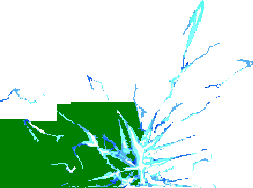
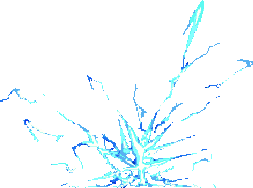
refactor: work on animateMovement() method

Changed region(s): [[0.0, 0.5319, 0.581, 1.0]]

diff --git a/script.js b/script.js
@@ -1,11 +1,16 @@
 var sasuke = {
-	crop: document.getElementsByClassName("character-Sasuke")[0],
-	gallery: document.getElementsByClassName("character-Sasuke__gallery gallery")[0],
-	valuesRunWidth: [39, 32, 36, 38, 32, 37],
-	valuesRunHeight: [29, 29, 29, 29, 29, 29],
+	heroAbilities: ["chidoriNagashi", "chidoriRun", "fireball"],
+	aCrop: document.getElementsByClassName("ability-crop")[0],
+	aGallery: document.getElementsByClassName("ability-crop__gallery gallery")[0],
+
+	hCrop: document.getElementsByClassName("Sasuke-crop")[0],
+	hGallery: document.getElementsByClassName("Sasuke-crop__gallery gallery")[0],
 
 	valuesStanceWidth: [24, 24, 24, 24, 24, 24],
 	valuesStanceHeight: [44, 45, 45, 45, 44, 44],
+
+	valuesRunWidth: [39, 32, 36, 38, 32, 37],
+	valuesRunHeight: [29, 29, 29, 29, 29, 29],
 
 	valuesJumpWidth: [27, 27, 30, 30, 23],
 	valuesJumpHeight: [41, 40, 43, 43, 28],
@@ -53,162 +58,123 @@ var sasuke = {
 	valuesChidoriNagashiWidth: [27, 26, 26, 26, 26, 26, 26, 26, 26, 26, 36, 35, 35, 32, 28, 28],
 	valuesChidoriNagashiHeight: [43, 40, 40, 40, 40, 40, 40, 40, 40, 36, 28, 29, 29, 25, 30, 40],
 
-	sasukeRunRight: function(){
-		animateMovement(this.crop, this.gallery, this.valuesRunWidth, this.valuesRunHeight, "Sasuke", "run", "right", 150);
-	},
-	sasukeRunLeft: function(){
-		animateMovement(this.crop, this.gallery, this.valuesRunWidth, this.valuesRunHeight, "Sasuke", "run", "left", 150);
+	sasukeStance: function(way){
+		animateMovement(this.valuesStanceWidth, this.valuesStanceHeight, this, "Sasuke", "stance", way, 150);
 	},
 
-	sasukeStanceRight: function(){
-		animateMovement(this.crop, this.gallery, this.valuesStanceWidth, this.valuesStanceHeight, "Sasuke", "stance", "right", 150);
-	},
-	sasukeStanceLeft: function(){
-		animateMovement(this.crop, this.gallery, this.valuesStanceWidth, this.valuesStanceHeight, "Sasuke", "stance", "left", 150);
+	sasukeRun: function(way){
+		animateMovement(this.valuesRunWidth, this.valuesRunHeight, this, "Sasuke", "run", way, 150);
 	},
 
-	sasukeJumpRight: function(){
-		animateMovement(this.crop, this.gallery, this.valuesJumpWidth, this.valuesJumpHeight, "Sasuke", "jump", "right", 300);
-	},
-	sasukeJumpLeft: function(){
-		animateMovement(this.crop, this.gallery, this.valuesJumpWidth, this.valuesJumpHeight, "Sasuke", "jump", "left", 300);
+	sasukeJump: function(way){
+		animateMovement(this.valuesJumpWidth, this.valuesJumpHeight, this, "Sasuke", "jump", way, 300);
 	},
 
-	sasukeTeleportRight: function(){
-		animateMovement(this.crop, this.gallery, this.valuesTeleportWidth, this.valuesTeleportHeight, "Sasuke", 
-						"teleport", "right", 200);
-	},
-	sasukeTeleportLeft: function(){
-		animateMovement(this.crop, this.gallery, this.valuesTeleportWidth, this.valuesTeleportHeight, "Sasuke", 
-						"teleport", "left", 200);
+	sasukeTeleport: function(way){
+		animateMovement(this.valuesTeleportWidth, this.valuesTeleportHeight, this, "Sasuke", 
+						"teleport", way, 200);
 	},
 
-	sasukeDamagedRight: function(){
-		animateMovement(this.crop, this.gallery, this.valuesDamagedWidth, this.valuesDamagedHeight, "Sasuke", "damaged", "right", 300);
-	},
-	sasukeDamagedLeft: function(){
-		animateMovement(this.crop, this.gallery, this.valuesDamagedWidth, this.valuesDamagedHeight, "Sasuke", "damaged", "left", 300);
+	sasukeDamaged: function(way){
+		animateMovement(this.valuesDamagedWidth, this.valuesDamagedHeight, this, "Sasuke", "damaged", way, 300);
 	},
 
 	//knockout - нокаут, поражение
-	sasukeKnockoutRight: function(){
-		animateMovement(this.crop, this.gallery, this.valuesKnockoutWidth, this.valuesKnockoutHeight, "Sasuke", "knockout", 
+	sasukeKnockout: function(way){
+		animateMovement(this.valuesKnockoutWidth, this.valuesKnockoutHeight, this, "Sasuke", "knockout", 
 						"right", 300);
-	},
-	sasukeKnockoutLeft: function(){
-		animateMovement(this.crop, this.gallery, this.valuesKnockoutWidth, this.valuesKnockoutHeight, "Sasuke", "knockout", 
-						"left", 300);
 	},
 
 	// knocked down - оглушение от сильного удара
-	sasukeKnockedDownRight: function(){
-		animateMovement(this.crop, this.gallery, this.valuesKnockedDownWidth, this.valuesKnockedDownHeight, "Sasuke", "knockedDown", 
-						"right", 300);
-	},
-	sasukeKnockedDownLeft: function(){
-		animateMovement(this.crop, this.gallery, this.valuesKnockedDownWidth, this.valuesKnockedDownHeight, "Sasuke", "knockedDown", 
-						"left", 300);
+	sasukeKnockedDown: function(way){
+		animateMovement(this.valuesKnockedDownWidth, this.valuesKnockedDownHeight, this, "Sasuke", "knockedDown", 
+						way, 300);
 	},
 
-	sasukeAttack1Right: function(){
-		animateMovement(this.crop, this.gallery, this.valuesAttack1Width, this.valuesAttack1Height, "Sasuke", "attack1", "right", 300);
-	},
-	sasukeAttack1Left: function(){
-		animateMovement(this.crop, this.gallery, this.valuesAttack1Width, this.valuesAttack1Height, "Sasuke", "attack1", "left", 300);
+	sasukeAttack1: function(way){
+		animateMovement(this.valuesAttack1Width, this.valuesAttack1Height, this, "Sasuke", "attack1", way, 300);
 	},
 
-	sasukeAttack2Right: function(){
-		animateMovement(this.crop, this.gallery, this.valuesAttack2Width, this.valuesAttack2Height, "Sasuke", "attack2", "right", 200);
-	},
-	sasukeAttack2Left: function(){
-		animateMovement(this.crop, this.gallery, this.valuesAttack2Width, this.valuesAttack2Height, "Sasuke", "attack2", "left", 200);
+	sasukeAttack2: function(way){
+		animateMovement(this.valuesAttack2Width, this.valuesAttack2Height, this, "Sasuke", "attack2", way, 200);
 	},
 
-	sasukeAttack3Right: function(){
-		animateMovement(this.crop, this.gallery, this.valuesAttack3Width, this.valuesAttack3Height, "Sasuke", "attack3", "right", 300);
-	},
-	sasukeAttack3Left: function(){
-		animateMovement(this.crop, this.gallery, this.valuesAttack3Width, this.valuesAttack3Height, "Sasuke", "attack3", "left", 300);
+	sasukeAttack3: function(way){
+		animateMovement(this.valuesAttack3Width, this.valuesAttack3Height, this, "Sasuke", "attack3", way, 300);
 	},
 
-	sasukeAttackUpRight: function(){
-		animateMovement(this.crop, this.gallery, this.valuesAttackUpWidth, this.valuesAttackUpHeight, "Sasuke", "attackUp", 
-						"right", 200);
-	},
-	sasukeAttackUpLeft: function(){
-		animateMovement(this.crop, this.gallery, this.valuesAttackUpWidth, this.valuesAttackUpHeight, "Sasuke", "attackUp", 
-						"left", 200);
+	sasukeAttackUp: function(way){
+		animateMovement(this.valuesAttackUpWidth, this.valuesAttackUpHeight, this, "Sasuke", "attackUp", 
+						way, 200);
 	},
 
-	sasukeAttackRunRight: function(){
-		animateMovement(this.crop, this.gallery, this.valuesAttackRunWidth, this.valuesAttackRunHeight, "Sasuke", "attackRun", 
-						"right", 300);
-	},
-	sasukeAttackRunLeft: function(){
-		animateMovement(this.crop, this.gallery, this.valuesAttackRunWidth, this.valuesAttackRunHeight, "Sasuke", "attackRun", 
-						"left", 300);
+	sasukeAttackRun: function(way){
+		animateMovement(this.valuesAttackRunWidth, this.valuesAttackRunHeight, this, "Sasuke", "attackRun", 
+						way, 300);
 	},
 
-	sasukeAttackJumpRight: function(){
-		animateMovement(this.crop, this.gallery, this.valuesAttackJumpWidth, this.valuesAttackJumpHeight, "Sasuke", "attackJump",
-						"right", 300);
-	},
-	sasukeAttackJumpLeft: function(){
-		animateMovement(this.crop, this.gallery, this.valuesAttackJumpWidth, this.valuesAttackJumpHeight, "Sasuke", "attackJump",
-						"left", 300);
+	sasukeAttackJump: function(way){
+		animateMovement(this.valuesAttackJumpWidth, this.valuesAttackJumpHeight, this, "Sasuke", "attackJump",
+						way, 300);
 	},
 
-	sasukeWeaponThrowRight: function(){
-		animateMovement(this.crop, this.gallery, this.valuesWeaponThrowWidth, this.valuesWeaponThrowHeight, "Sasuke", "weaponThrow",
-						"right", 200);
-	},
-	sasukeWeaponThrowLeft: function(){
-		animateMovement(this.crop, this.gallery, this.valuesWeaponThrowWidth, this.valuesWeaponThrowHeight, "Sasuke", "weaponThrow",
-						"left", 200);
+	sasukeWeaponThrow: function(way){
+		animateMovement(this.valuesWeaponThrowWidth, this.valuesWeaponThrowHeight, this, "Sasuke", "weaponThrow",
+						way, 200);
 	},
 
-	sasukeWeaponThrowJumpRight: function(){
-		animateMovement(this.crop, this.gallery, this.valuesWeaponThrowJumpWidth, this.valuesWeaponThrowJumpHeight, "Sasuke",
-						"weaponThrowJump", "right", 150);
-	},
-	sasukeWeaponThrowJumpLeft: function(){
-		animateMovement(this.crop, this.gallery, this.valuesWeaponThrowJumpWidth, this.valuesWeaponThrowJumpHeight, "Sasuke",
-						"weaponThrowJump", "left", 150);
+	sasukeWeaponThrowJump: function(way){
+		animateMovement(this.valuesWeaponThrowJumpWidth, this.valuesWeaponThrowJumpHeight, this, "Sasuke",
+						"weaponThrowJump", way, 150);
 	},
 
-	sasukeWinRight: function(){
-		animateMovement(this.crop, this.gallery, this.valuesWinWidth, this.valuesWinHeight, "Sasuke", "win", "right", 200);
-	},
-	sasukeWinLeft: function(){
-		animateMovement(this.crop, this.gallery, this.valuesWinWidth, this.valuesWinHeight, "Sasuke", "win", "left", 200);
+	sasukeWin: function(way){
+		animateMovement(this.valuesWinWidth, this.valuesWinHeight, this, "Sasuke", "win", way, 200);
 	},
 
-	sasukeChidoriNagashiRight: function(){
-		animateMovement(this.crop, this.gallery, this.valuesChidoriNagashiWidth, this.valuesChidoriNagashiHeight, "Sasuke", 
-						"chidoriNagashi", "right", 250);
+	sasukeChidoriNagashi: function(way){
+		animateMovement(this.valuesChidoriNagashiWidth, this.valuesChidoriNagashiHeight, this, "Sasuke", 
+						"chidoriNagashi", way, 250);
 	},
-	sasukeChidoriNagashiLeft: function(){
-		animateMovement(this.crop, this.gallery, this.valuesChidoriNagashiWidth, this.valuesChidoriNagashiHeight, "Sasuke",
-						"chidoriNagashi", "left", 250);
+
+	chidoriNagashi: function(){
+		console.log("chidoriNagashi is called!");
+		//drawAbility();
 	}
 };
 
-function animateMovement(crop, gallery, widthValues, heightValues, hero, type, way, milliseconds){
+function drawAbility(crop, gallery, widthValues, heightValues, heroName, type, way, folder1, folder2){
+
+}
+
+function animateMovement(widthValues, heightValues, hero, heroName, type, way, milliseconds){
+	//Обращение по ссылке к объекту, который вызвал метод
+	var crop = hero.hCrop;
+	var gallery = hero.hGallery;
+
 	var imageCount = 0; //Индекс текущей картинки, которую нужно сместить; впоследствии получает расстояние смещения
 	var imageMoving = 1; //Индекс следующей картинки, под которую нужно подстроить кроп
 	var pixelIndex = 4;
 	var moveGalleryX = 0;
 
-	while(gallery.childElementCount != 0){
-		//console.log(gallery.children[0].alt + " removed");
-		gallery.removeChild(gallery.children[0]);
+	if(gallery.childElementCount != 0){
+		while(gallery.childElementCount != 0){
+			//console.log(gallery.children[0].alt + " removed");
+			gallery.removeChild(gallery.children[0]);
+		}
 	}
 
 /*	widthValues и gallery являются как бы "параллельными массивами", которые имеют одинаковую длину, и работая в цикле одним и тем же 
 	элементом*/	
 	for(var i=0; i<widthValues.length; i++){
 		var image = new Image();
-		image.src = "images/" + hero + "/" + type + "/" + way + "/" + (i+1) + ".png";
+		if(way == "left"){
+			image.src = "images/" + heroName + "/" + type + "/" + "left" + "/" + (i+1) + ".png";
+		}
+		else if(way == "right"){
+			image.src = "images/" + heroName + "/" + type + "/" + "right" + "/" + (i+1) + ".png";
+		}
+		
 		// widthValues приносит готовые значения ширины фреймов
 		image.style.width = (widthValues[i] * pixelIndex) + "px";
 		image.style.height = (heightValues[i] * pixelIndex) + "px";
@@ -222,8 +188,14 @@ function animateMovement(crop, gallery, widthValues, heightValues, hero, type, w
 
 	crop.style.width = (widthValues[0] * pixelIndex) + "px";
 	crop.style.height = (heightValues[0] * pixelIndex) + "px";
-	//gallery.style.height = (maxValueHeight * pixelIndex) + "px";
-	//console.log("cropWidth: " + crop.style.width);
+	
+	for(var i=0; i<hero.heroAbilities.length; i++){
+		if(hero.heroAbilities[i] === type){
+			console.log("This is " + type + "!");
+			hero[type]();
+			//console.log(hero.heroAbilities);
+		}
+	}
 
 	var interval = setInterval(function(){
 		if(imageMoving == gallery.childElementCount){
@@ -250,37 +222,20 @@ function animateMovement(crop, gallery, widthValues, heightValues, hero, type, w
 	}, milliseconds);
 }
 
-// sasuke.sasukeRunLeft();
-// sasuke.sasukeRunRight();
-// sasuke.sasukeStanceRight();
-// sasuke.sasukeStanceLeft();
-// sasuke.sasukeJumpRight();
-// sasuke.sasukeJumpLeft();
-// sasuke.sasukeTeleportRight();
-// sasuke.sasukeTeleportLeft();
-// sasuke.sasukeDamagedRight();
-// sasuke.sasukeDamagedLeft();
-// sasuke.sasukeKnockoutRight();
-// sasuke.sasukeKnockoutLeft();
-// sasuke.sasukeAttack1Right();
-// sasuke.sasukeAttack1Left();
-// sasuke.sasukeAttack2Right();
-// sasuke.sasukeAttack2Left();
-// sasuke.sasukeAttack3Right();
-// sasuke.sasukeAttack3Left();
-// sasuke.sasukeKnockedDownRight();
-// sasuke.sasukeKnockedDownLeft();
-// sasuke.sasukeAttackUpRight();
-// sasuke.sasukeAttackUpLeft();
-// sasuke.sasukeAttackRunRight();
-// sasuke.sasukeAttackRunLeft();
-// sasuke.sasukeAttackJumpRight();
-// sasuke.sasukeAttackJumpLeft();
-// sasuke.sasukeWeaponThrowRight();
-// sasuke.sasukeWeaponThrowLeft();
-// sasuke.sasukeWeaponThrowJumpRight();
-// sasuke.sasukeWeaponThrowJumpLeft();
-// sasuke.sasukeWinRight();
-// sasuke.sasukeWinLeft();
-// sasuke.sasukeChidoriNagashiRight();
-// sasuke.sasukeChidoriNagashiLeft();
+// sasuke.sasukeStance("left");
+// sasuke.sasukeRun();
+// sasuke.sasukeJump();
+// sasuke.sasukeTeleport("left");
+// sasuke.sasukeDamaged();
+// sasuke.sasukeKnockout();
+// sasuke.sasukeAttack1("right");
+// sasuke.sasukeAttack2();
+// sasuke.sasukeAttack3("right");
+// sasuke.sasukeKnockedDown("left");
+// sasuke.sasukeAttackUp();
+// sasuke.sasukeAttackRun();
+// sasuke.sasukeAttackJump();
+// sasuke.sasukeWeaponThrow();
+// sasuke.sasukeWeaponThrowJump();
+// sasuke.sasukeWin();
+sasuke.sasukeChidoriNagashi("left");

diff --git a/index.html b/index.html
@@ -10,13 +10,15 @@
 	
 	<body>
 		<div class="character-Sasuke">
-			<div class="character-Sasuke__gallery gallery">
-				<img class="character-Sasuke__run image" src="images/Sasuke/run/right/1.png" alt="Run1">
-				<img class="character-Sasuke__run image" src="images/Sasuke/run/right/2.png" alt="Run2">
-				<img class="character-Sasuke__run image" src="images/Sasuke/run/right/3.png" alt="Run3">
-				<img class="character-Sasuke__run image" src="images/Sasuke/run/right/4.png" alt="Run4">
-				<img class="character-Sasuke__run image" src="images/Sasuke/run/right/5.png" alt="Run5">
-				<img class="character-Sasuke__run image" src="images/Sasuke/run/right/6.png" alt="Run6">
+			<div class="Sasuke-crop">
+				<div class="Sasuke-crop__gallery gallery">
+					
+				</div>
+			</div>
+			<div class="ability-crop">
+				<div class="ability-crop__gallery gallery">
+
+				</div>
 			</div>
 		</div>
 		<script src="script.js"></script>

diff --git a/css/styles.css b/css/styles.css
@@ -71,7 +71,7 @@ body {
           align-items: flex-end;
 }
 
-.character-Sasuke {
+.Sasuke-crop, .ability-crop {
   position: relative;
   overflow: hidden;
 }

diff --git a/scss/styles.scss b/scss/styles.scss
@@ -8,7 +8,7 @@ body{
 }
 
 $spriteSize: 4;
-.character-Sasuke{
+.Sasuke-crop, .ability-crop{
 	position: relative;
 	overflow: hidden;
 }
